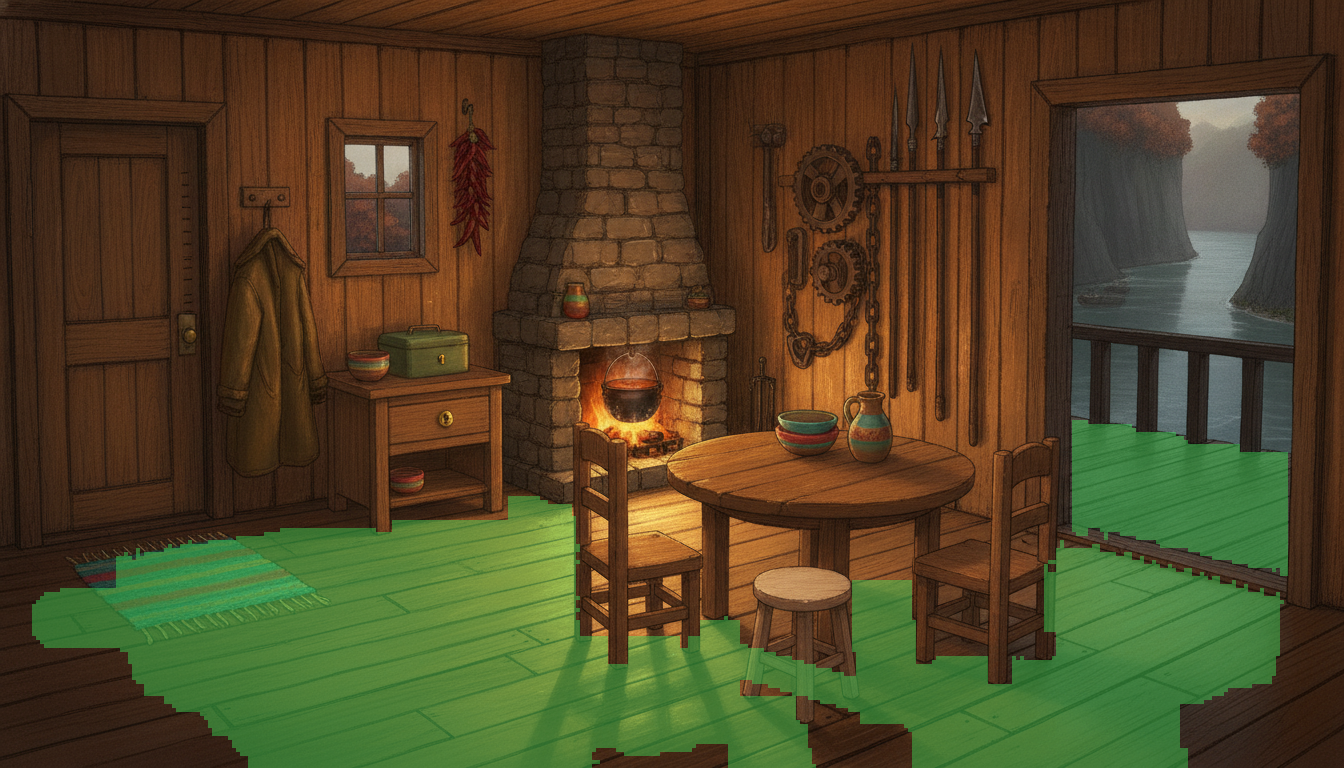
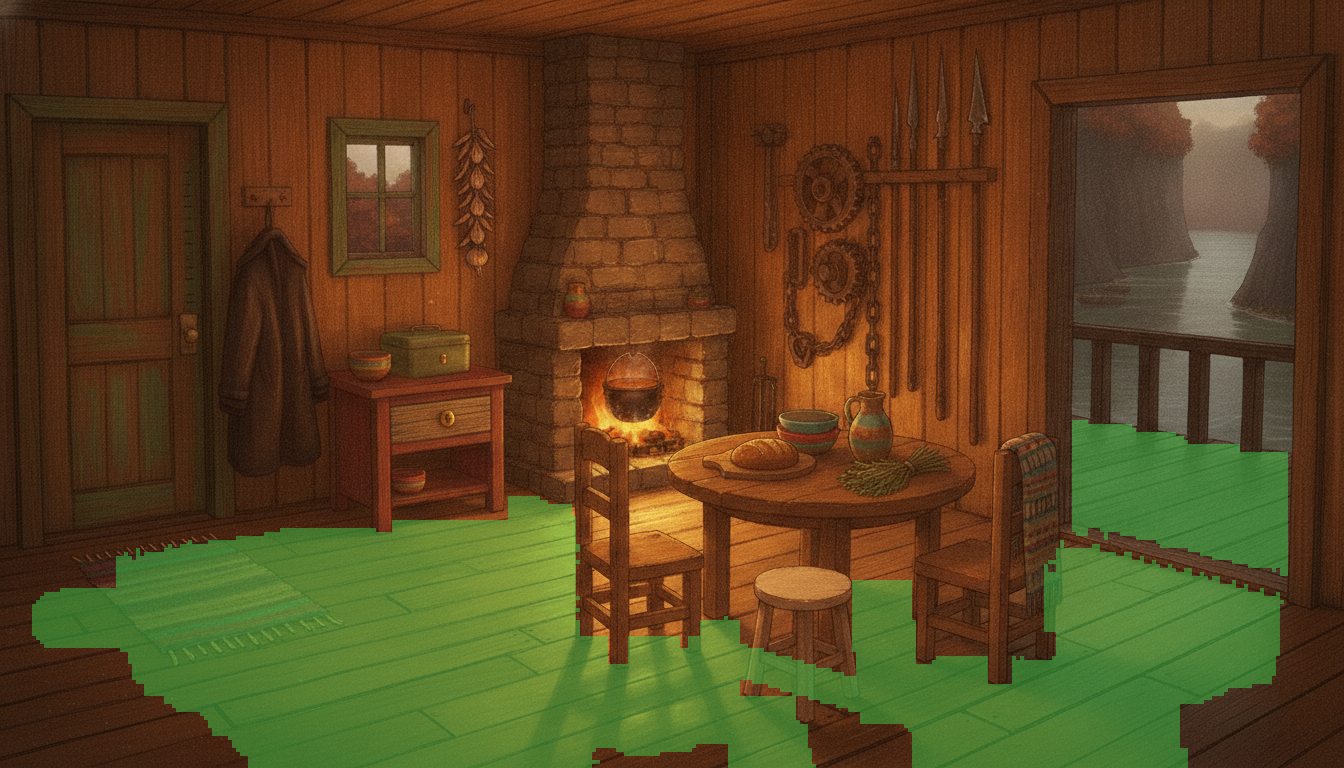
Enliven the keepers' cottage for the supper scene
Same room, same layout, every staging coordinate verified in place —
now painted like a Dellhollow home: boat-green door face, hull-red
dresser (the locked drawer stays bare oiled wood — kept things keep
their finish), green window frame, onion string, wool blanket, bread
and jug and striped bowls on the table, multicolor rag rug, warmer
firelight with readable corners. All five storytelling props verified
at zoom; mask still valid (composite re-verified).

diff --git a/public/ch2-expansion-art.html b/public/ch2-expansion-art.html
@@ -11,6 +11,7 @@
   .cap { font-size: 12.5px; font-style: italic; opacity: .85; margin-top: 6px; max-width: 440px; }
   .accept { color: #9fd08a; font-style: normal; font-variant: small-caps; }
   .reject { color: #d08a8a; font-style: normal; font-variant: small-caps; }
+  .cur { color: #d0b48a; font-style: normal; font-variant: small-caps; }
   dialog { background: #241c14; border: 2px solid #9c7a4c; border-radius: 12px; max-width: 94vw; padding: 10px; }
   dialog img { max-width: 90vw; max-height: 84vh; display: block; }
   dialog::backdrop { background: rgba(0,0,0,.8); }
@@ -24,10 +25,22 @@ This page always shows the current on-disk state.</div>
 <div class="row">
   <div class="card"><img src="assets/scenes/vista/main.png"><div class="cap"><span class="accept">accepted</span> — vista/main.png. The valley read-aloud: queue + pumpkin barge upper-left, lock chain, roofed Lock Five, bunting, jetty in the tailwater, north haze top-right, rim + moth foreground.</div></div>
   <div class="card"><img src="assets/scenes/stairs/main.png"><div class="cap"><span class="accept">accepted</span> — stairs/main.png. The color-rule showcase: hull-paint doors (no two alike), laundry flags, striped awning, cistern, chalk games, hoist, gulls, the one plain carved-lintel keepers' door.</div></div>
-  <div class="card"><img src="assets/scenes/cottage/main.png"><div class="cap"><span class="accept">accepted</span> — cottage/main.png (= cand4). All five storytelling props: tally doorframe (inner alcove), oilskin + peg, locked drawer, eel-spears/winch-parts, worn chairs + newer pale stool. Boat-color bowls, rag rugs, gate-green bread tin.</div></div>
+  <div class="card"><img src="assets/scenes/cottage/main.png"><div class="cap"><span class="accept">accepted</span> — cottage/main.png (= lively-roll3, the 2026-07-22 hull-paint repaint; previous final parked as candidates/pre-lively-main.png). All five storytelling props kept: tally doorframe, oilskin + empty peg, locked bare-wood drawer (now the one unpainted face on a hull-red dresser), eel-spears/winch-parts, worn chairs + newer pale stool.</div></div>
 </div>
 
-<h2>Cottage candidates (roll history)</h2>
+<h2>Cottage lively repaint — supper overhaul (2026-07-22)</h2>
+<div class="sub">Director's note: the interior should read as the home of Dellhollow people — hull-paint on the
+painted-wood things, brighter firelight, more of Maren's and Odessa's texture. Same room, same layout, same
+camera; the five storytelling props sacred and bare-wood. Anchored on the previous final + master-6b.</div>
+<div class="row">
+  <div class="card"><img src="assets/scenes/cottage/candidates/pre-lively-main.png"><div class="cap"><span class="cur">previous final</span> — pre-lively-main.png. Warm but somber-brown; the painting being replaced.</div></div>
+  <div class="card"><img src="assets/scenes/cottage/candidates/lively-roll1.png"><div class="cap"><span class="reject">superseded</span> — lively-roll1: all five props held; boat-green door, red dresser, blanket, bread + herbs. But the sacred drawer face got painted red, window came out green not teal, corners still murky.</div></div>
+  <div class="card"><img src="assets/scenes/cottage/candidates/lively-roll2.png"><div class="cap"><span class="reject">rejected</span> — lively-roll2: props held, but whole walls painted chipped red/teal and three rugs — reads festival, loses the intimacy; drawer face painted too.</div></div>
+  <div class="card"><img src="assets/scenes/cottage/candidates/lively-roll3.png"><div class="cap"><span class="accept">ACCEPTED → main.png</span> — lively-roll3 (refinement of roll1): drawer face back to bare oiled wood against the red dresser, corners lifted with warm firelight, onion string by the hearth. All five props verified at zoom. Known niggles: pepper string became onions, window frame green rather than teal.</div></div>
+  <div class="card"><img src="assets/scenes/cottage/candidates/lively-roll4.png"><div class="cap"><span class="reject">rejected</span> — lively-roll4 (attempted pepper/teal fix): overreached — door's inside face turned teal (boat-green lost), tallies migrated onto the painted door face, onion string dropped, stray pepper string over the tool wall.</div></div>
+</div>
+
+<h2>Cottage candidates (original roll history)</h2>
 <div class="row">
   <div class="card"><img src="assets/scenes/cottage/candidates/cand1.png"><div class="cap"><span class="reject">rejected</span> — cand1: oilskin coat entirely missing; tallies read as faint scratches only.</div></div>
   <div class="card"><img src="assets/scenes/cottage/candidates/cand2.png"><div class="cap"><span class="reject">rejected</span> — cand2: coat present but no visible height-tallies; third seat not readable as newer wood; stray chart-like paper on the table.</div></div>